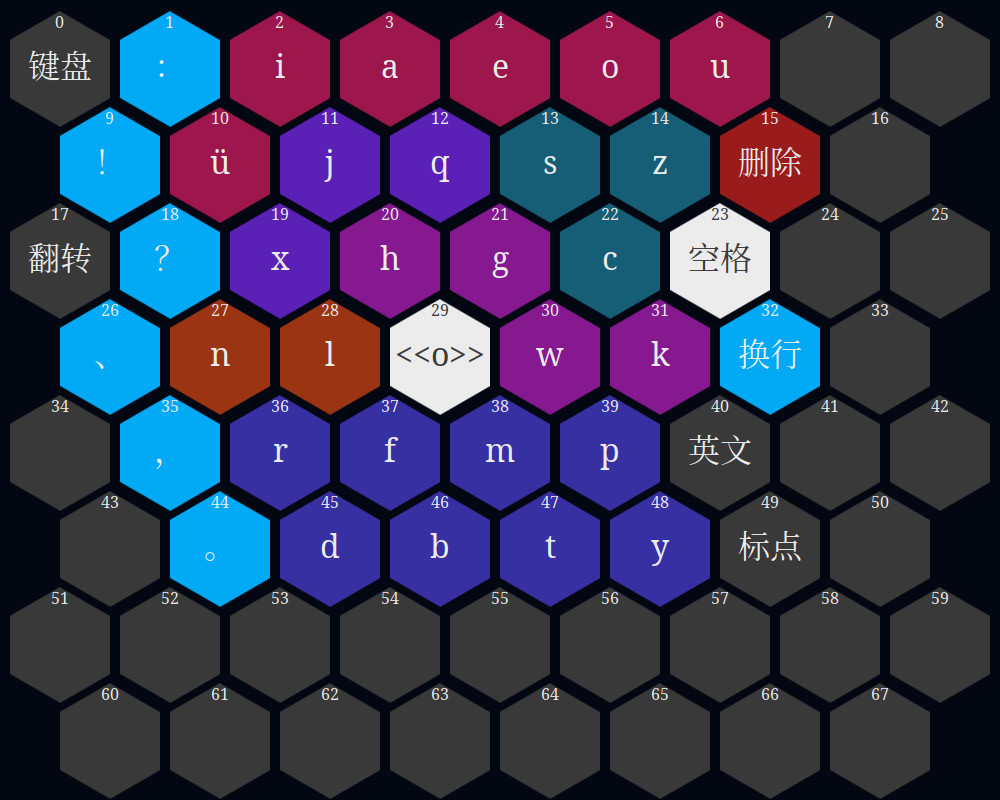
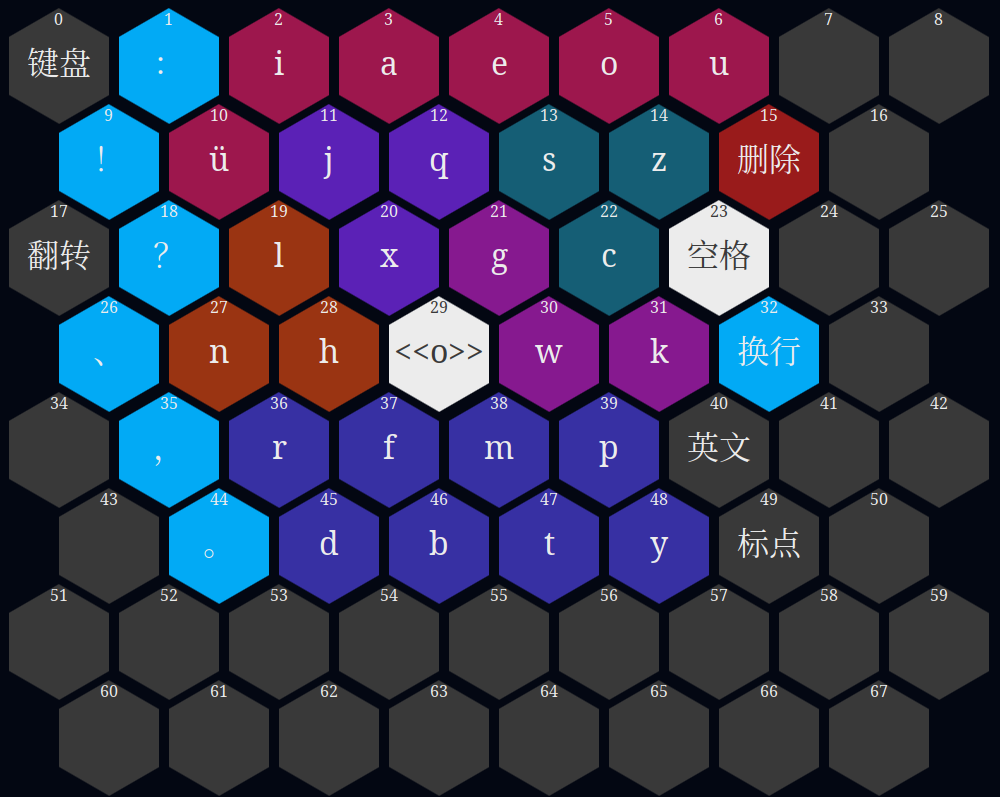
调整拼音键盘按键布局

diff --git a/analyze/simulate.js b/analyze/simulate.js
@@ -15,9 +15,9 @@ const hexSpacing = 5;
 const hexOuterWidth = hexWidth + 2 * hexSpacing;
 const keyMapping = {
   18: '？',
-  20: 'h',
+  19: 'l',
   21: 'g',
-  19: 'x',
+  20: 'x',
   22: 'c',
   23: '空格',
   11: 'j',
@@ -33,7 +33,7 @@ const keyMapping = {
   5: 'o',
   6: 'u',
   27: 'n',
-  28: 'l',
+  28: 'h',
   29: '<&lt;o&gt;>',
   30: 'w',
   31: 'k',

diff --git a/analyze/simulate.css b/analyze/simulate.css
@@ -185,12 +185,12 @@ body {
   background-color: rgb(21, 94, 117);
 }
 
+.key[name="h"] .hex-inner,
 .key[name="l"] .hex-inner,
 .key[name="n"] .hex-inner {
   background-color: rgb(154, 52, 18);
 }
 
-.key[name="h"] .hex-inner,
 .key[name="g"] .hex-inner,
 .key[name="w"] .hex-inner,
 .key[name="k"] .hex-inner {
